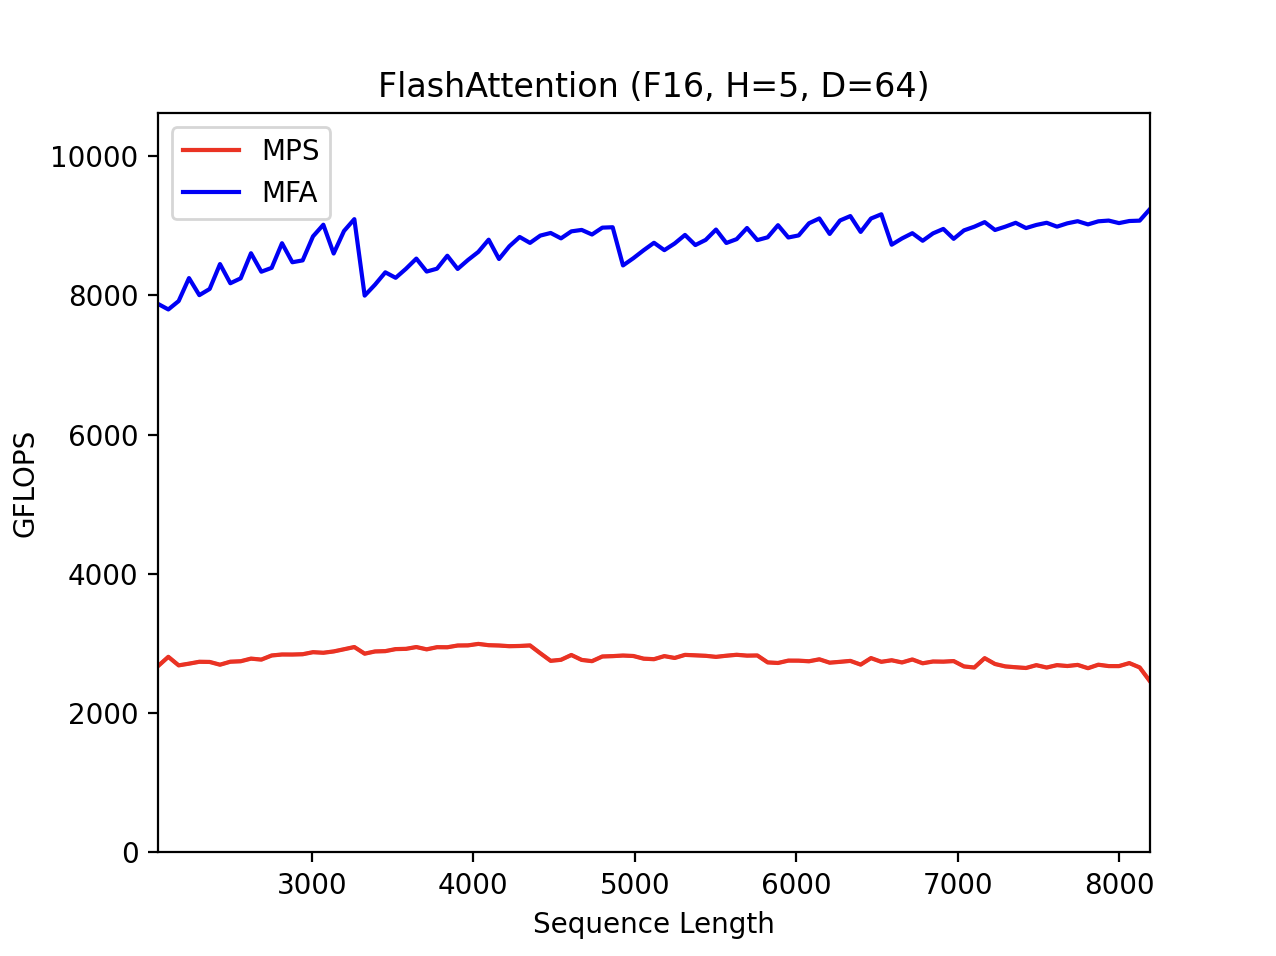
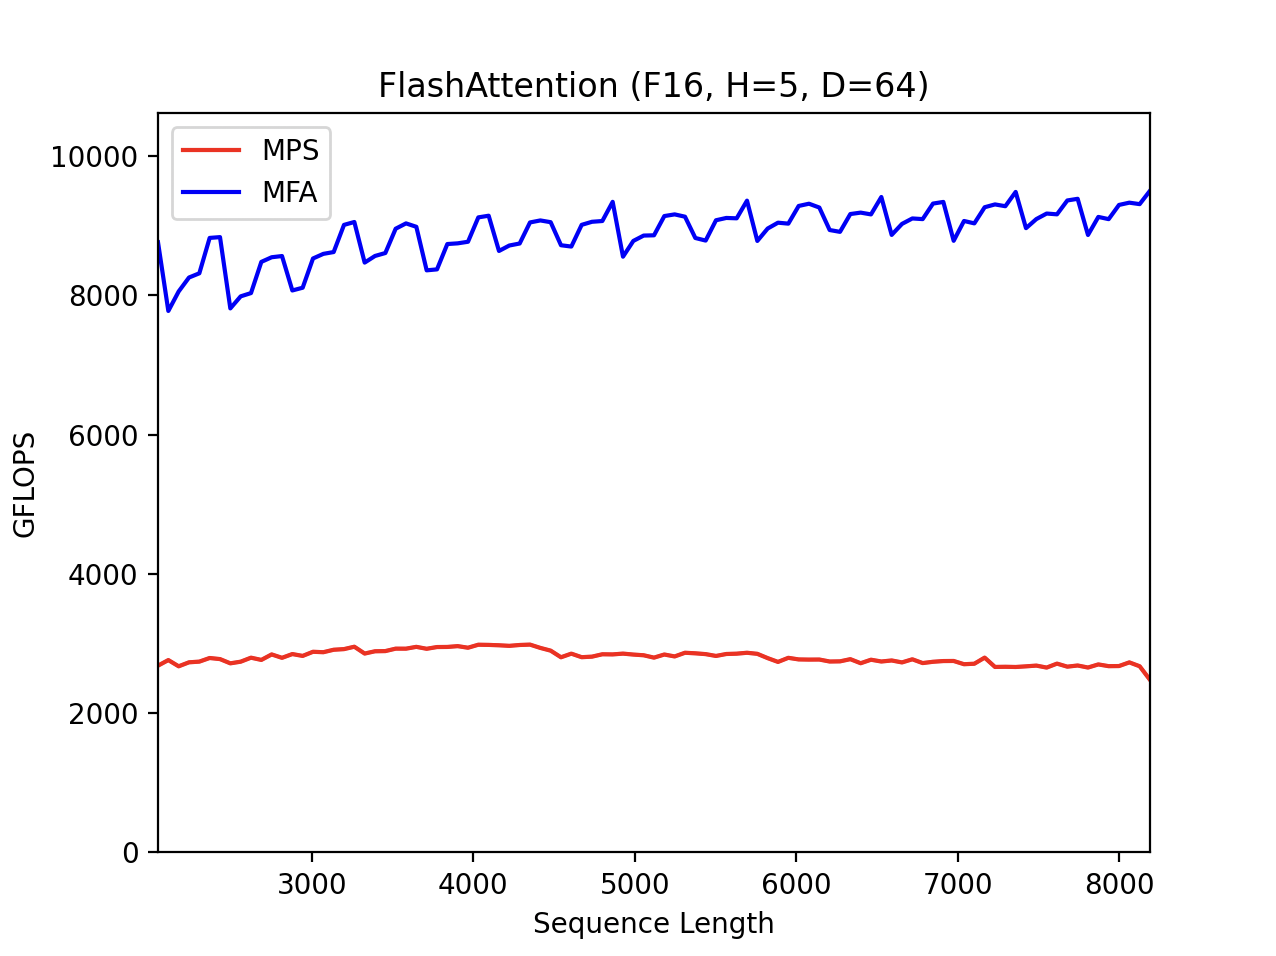
CI for attention

diff --git a/Tests/Test Cases/AttentionPerfTests.swift b/Tests/Test Cases/AttentionPerfTests.swift
@@ -25,24 +25,28 @@ class AttentionPerfTests: MFATestCase {
     // For causal:
     //   remove the non-MFA backends
     //   narrow the range from 0...1024 to 512...1024
+    // For heads caling:
+    //   sequence length 2048
     //
     // Production:
     // Granularity:
     //   2 (causal), 4 (small), 64 (large), 1+ (head size)
     // Length:
     //   1 (head size), 2 (everything else)
+    // For heads scaling:
+    //   sequence length 4096
     
-//    let duration = Duration(granularity: 64, length: 2)
+//    let duration = Duration(granularity: 2, length: 2)
 //    let (domain, ranges) = rangeSequenceScaling(
-//      duration: duration, type: .large)
-//    
-//    var backends = SequenceType.large.backends
+//      duration: duration, type: .causal)
+//
+//    let backends = SequenceType.causal.backends
 //    backends = backends.compactMap {
 //      if $0.isMPS { return nil }
 //      return $0
 //    }
     
-    let duration = Duration(granularity: 8, length: 1)
+    let duration = Duration(granularity: 1, length: 1)
     let (domain, ranges) = rangeHeadScaling(duration: duration)
     let backends = [AttentionBackend.mps, AttentionBackend.mfa]
     testAttention(
@@ -260,12 +264,13 @@ class AttentionPerfTests: MFATestCase {
     var domain: ClosedRange<Int>
     var parameters: [SIMD4<Int>]
     if type == .causal {
-      domain = 512...1024
+//      domain = 512...1024
+      domain = 0...1024
       parameters = [
-//        SIMD4(granularity, 192, 256, 8),
-//        SIMD4( 192,  256, 128, 8),
-//        SIMD4( 256,  384,  64, 8),
-//        SIMD4( 384,  512,  32, 8),
+        SIMD4(granularity, 192, 256, 8),
+        SIMD4( 192,  256, 128, 8),
+        SIMD4( 256,  384,  64, 8),
+        SIMD4( 384,  512,  32, 8),
         SIMD4( 512,  768,  16, 8),
         SIMD4( 768, 1025,   8, 8),
       ]
@@ -351,25 +356,34 @@ class AttentionPerfTests: MFATestCase {
     let granularity = duration.granularity
     let domain = 0...384
     let parameters: [SIMD4<Int>] = [
+      // Prototyping:
+//      SIMD4(granularity, 32,  16, granularity * 1),
+//      SIMD4(         32, 64,   8, granularity * 1),
+//      SIMD4(         64, 160,  4, granularity * 2),
+//      SIMD4(        160, 385,  4, granularity * 4),
+      
+      // Production:
       SIMD4(granularity, 32,  16, granularity * 1),
       SIMD4(         32, 64,   8, granularity * 1),
-      SIMD4(         64, 160,  4, granularity * 2),
-      SIMD4(        160, 385,  4, granularity * 4),
+      SIMD4(         64, 128,  4, granularity * 2),
+      SIMD4(        128, 256,  2, granularity * 4),
+      SIMD4(        256, 385,  2, granularity * 16),
     ]
+    let sequenceLength = 4096
     
     return (domain, parameters.indices.map { i in
       let parameter = parameters[i]
       let start = AttentionConfig(
         B: 1,
-        R: 2048,
-        C: 2048,
+        R: sequenceLength,
+        C: sequenceLength,
         H: 8,
         D: parameter[0],
         sparsityPercent: -1)
       let end = AttentionConfig(
         B: 1,
-        R: 2048,
-        C: 2048,
+        R: sequenceLength,
+        C: sequenceLength,
         H: 8,
         D: parameter[1],
         sparsityPercent: -1)

diff --git a/README.md b/README.md
@@ -158,7 +158,7 @@ Scaling by sequence length:
 
 Scaling by head size:
 - Masking: dense, no mask
-- Sequence length 2048
+- Sequence length 4096
 - Head size: every integer
   - &le;64: every integer
   - &gt;64: every `roundUpToPowerOf2(D/64)` integers
@@ -204,11 +204,13 @@ Dense: Stable Diffusion 2 outermost attention layer @ 512x512 (sequence length =
 
 ### Float16 Sequence Scaling (Causal Mask)
 
-### Float32 Head Scaling
+![FlashAttention (F16, H=10, D=64)](./CI/float16-causal-sequences-latest.png)
 
 ### Float16 Head Scaling
 
 Dense: Stable Diffusion 1 outermost attention layer @ 512x512 (head size = 40)
+
+![FlashAttention (F16, R=C=4096, H=8)](./CI/float16-head-sizes-latest.png)
 
 ### Float16 Sparsity Scaling
 